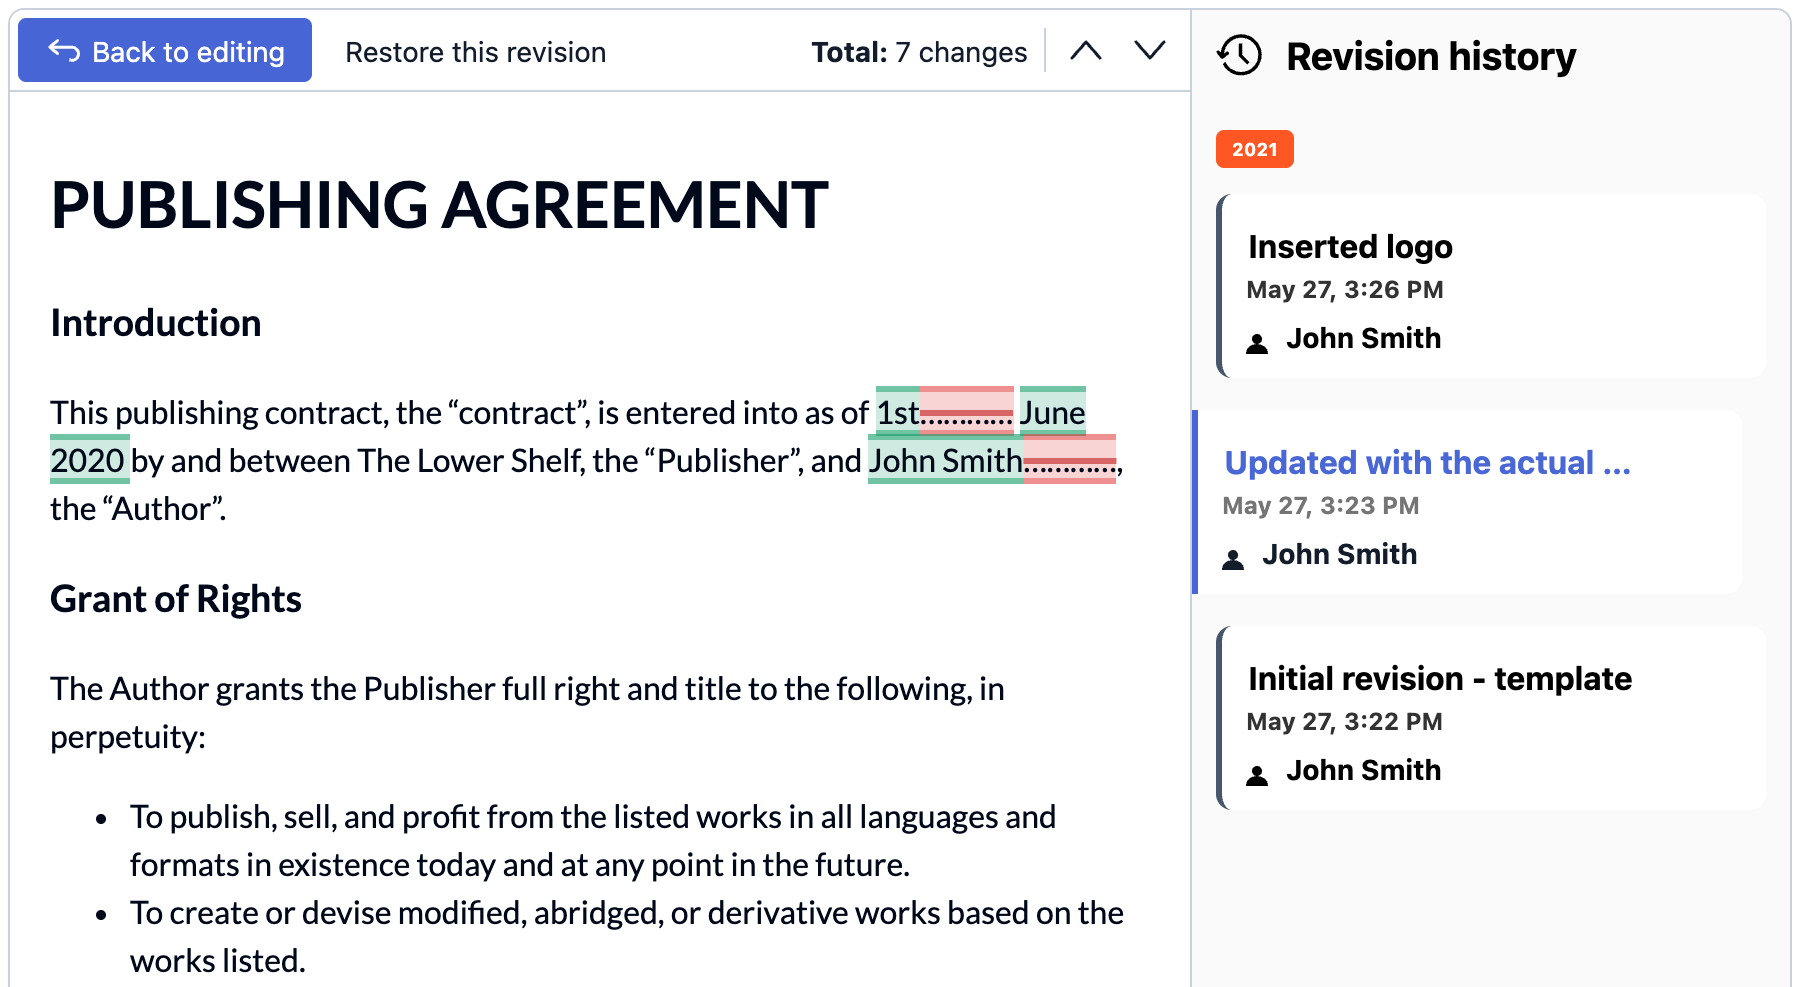
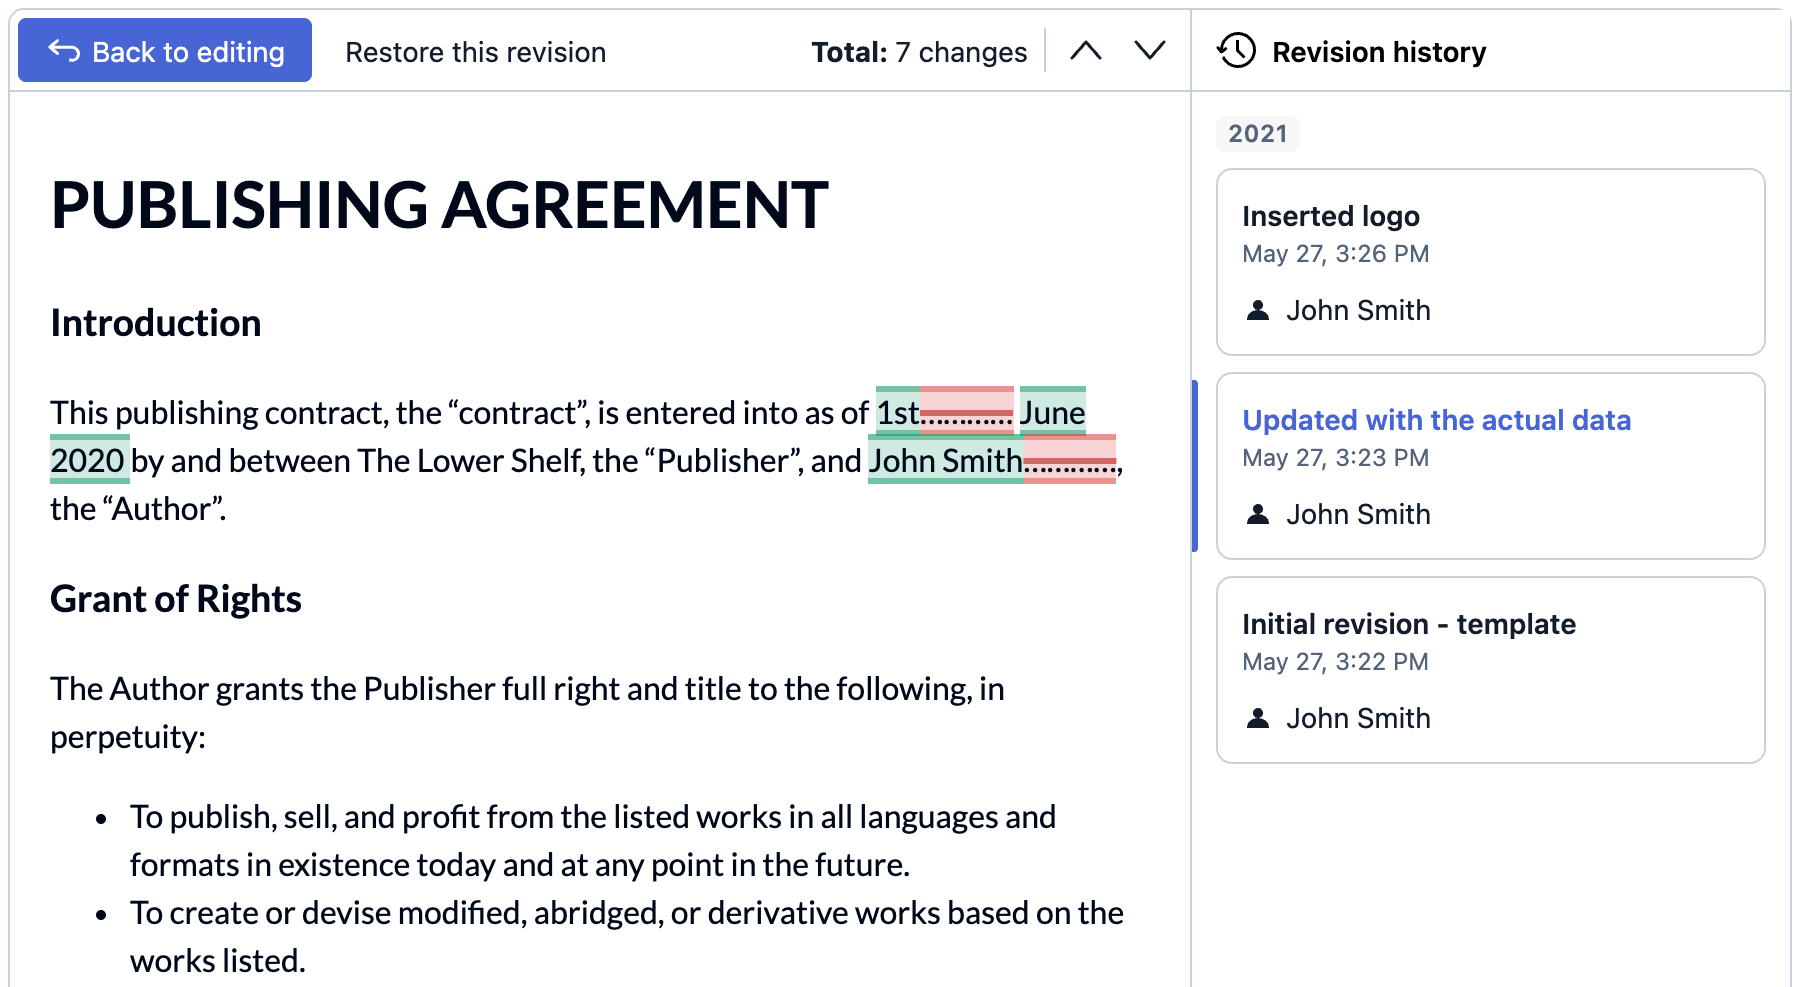
Updated the refreshed-theme migration guide with new CSS rules.
- Added a CSS rule for `.ck-suggestion__ai-source-pill` margin spacing to the migration preset.
- Added new CSS custom properties for the revision history sidebar, including period text color, time-period vertical spacing, and header border.
- Added detailed CSS overrides for revision history sidebar components, covering the header, time-period labels, revision wrappers, revision names, author display, and dropdown actions.
- Updated the revision history feature screenshot.

Revision: 4d4f7a3050e430af6f2193bb05bafce94161cb61

diff --git a/docs/updating/migration-to-refreshed-theme.md b/docs/updating/migration-to-refreshed-theme.md
@@ -1379,6 +1379,10 @@ If you do not have the file yet, copy it from the blocks below. The preset is sp
 	}
 }
 
+.ck .ck-suggestion__ai-source-pill {
+	margin-top: var(--ck-spacing-small, var(--ck-spacing-sm));
+}
+
 /* ============================== ckeditor5-comments ============================== */
 :root,
 :host {
@@ -1532,8 +1536,11 @@ If you do not have the file yet, copy it from the blocks below. The preset is sp
 	--ck-revision-history-revision-delete-confirmation-background-color: var(--ck-revision-history-revision-delete-confirmation-background, hsl(0deg 100% 90%));
 	--ck-revision-history-revision-delete-confirmation-active-button-background-color: var(--ck-revision-history-revision-delete-confirmation-active-button-background, hsl(0deg 100% 85%));
 	--ck-revision-history-sidebar-period-background-color: var(--ck-revision-history-sidebar-period-background, hsl(14deg 100% 57%));
+	--ck-revision-history-sidebar-period-text-color: var(--ck-color-text-inverse);
 	--ck-revision-history-sidebar-timeline-padding: var(--ck-spacing-padding-comfortable);
 	--ck-revision-history-sidebar-revision-vertical-spacing: calc(2 * var(--ck-spacing-standard, var(--ck-spacing-base)));
+	--ck-revision-history-sidebar-time-period-vertical-spacing: var(--ck-revision-history-sidebar-revision-vertical-spacing);
+	--ck-revision-history-sidebar-header-border-bottom: var(--ck-border-divider);
 	--ck-revision-history-loading-overlay-visible-background-color: var(--ck-revision-history-loading-overlay-visible-background, hsl(0 0% 100% / 1));
 	--ck-revision-history-loading-overlay-spinner-size: 60px;
 	--ck-revision-history-loading-overlay-spinner-rotation-duration: 1s;
@@ -1547,6 +1554,189 @@ If you do not have the file yet, copy it from the blocks below. The preset is sp
 	&:hover:not(.ck-disabled) {
 		background: var(--ck-color-base-active-focus);
 	}
+}
+
+.ck.ck-revision-history-sidebar__header {
+	--header-height: max(
+		calc(var(--ck-ui-component-min-height, var(--ck-size-min-height)) + 2 * var(--ck-spacing-small, var(--ck-spacing-sm)) + 1px),
+		calc(var(--ck-icon-size) + 2 * var(--ck-spacing-small, var(--ck-spacing-sm)) + 2 * var(--ck-spacing-small, var(--ck-spacing-sm)) + 1px)
+	);
+
+	font-size: var(--ck-font-size-normal, var(--ck-font-size-base));
+
+	& .ck-revision-history-sidebar__header__label {
+		font-weight: bold;
+		font-size: 1.2em;
+	}
+
+	& .ck-icon {
+		margin-inline-end: var(--ck-spacing-large, var(--ck-spacing-lg));
+	}
+}
+
+.ck.ck-revision-history-sidebar__time-period .ck-revision-history-sidebar__time-period__label {
+	display: inline;
+	width: auto;
+	font-size: 9px;
+	font-weight: bold;
+	line-height: inherit;
+	letter-spacing: normal;
+	padding: var(--ck-spacing-control-padding-block) var(--ck-spacing-control-padding-inline);
+
+	&:first-child {
+		margin-top: var(--ck-spacing-standard, var(--ck-spacing-base));
+	}
+}
+
+.ck.ck-revision-history-sidebar__revision-wrapper .ck-revision-history-sidebar__revision {
+	display: block;
+	color: inherit;
+	border: 0;
+	border-left: 3px solid var(--ck-revision-history-revision-border-color);
+
+	& .ck-revision-history-sidebar__revision__actions {
+		display: block;
+		position: absolute;
+		top: var(--ck-revision-history-revision-padding-block);
+		right: var(--ck-revision-history-revision-padding-inline);
+	}
+
+	& .ck-revision-history-sidebar__revision__date {
+		font-weight: bold;
+		line-height: inherit;
+		opacity: .8;
+	}
+
+	& .ck-revision-history-sidebar__revision-authors {
+		display: block;
+	}
+
+	& .ck-revision-history-sidebar__revision-ai-pill-row {
+		margin-top: var(--ck-spacing-small, var(--ck-spacing-sm));
+	}
+
+	&.ck-revision-history-sidebar__revision_selected,
+	&.ck-revision-history-sidebar__revision_highlighted {
+		transform: translateX(calc(-1 * var(--ck-revision-history-sidebar-timeline-padding)));
+	}
+
+	&.ck-revision-history-sidebar__revision_selected {
+		border-left-color: var(--ck-revision-history-revision-selected-border-color);
+	}
+
+	&.ck-revision-history-sidebar__revision_highlighted {
+		border-left-color: var(--ck-revision-history-revision-highlighted-border-color);
+	}
+
+	& .ck-revision-history-sidebar__revision__edit-actions {
+		gap: 0;
+		margin-top: var(--ck-spacing-standard, var(--ck-spacing-base));
+
+		& .ck.ck-button {
+			min-height: var(--ck-ui-component-min-height, var(--ck-size-min-height));
+			min-width: 60px;
+			font-size: var(--ck-annotation-button-size);
+			margin-left: var(--ck-spacing-large, var(--ck-spacing-lg));
+			padding: 0 var(--ck-spacing-control-padding-inline);
+		}
+	}
+
+	&.ck-revision-history-sidebar__revision_selected.ck-revision-history-sidebar__revision_editing {
+		background: var(--ck-revision-history-revision-background-color);
+		color: inherit;
+
+		& .ck-revision-history-sidebar__revision-author__name {
+			color: var(--ck-revision-history-revision-author-text-color);
+		}
+	}
+}
+
+.ck.ck-revision-history-sidebar__revision-name {
+	font-size: 1.2em;
+	font-weight: bold;
+}
+
+.ck.ck-revision-history-sidebar__revision:not(.ck-revision-history-sidebar__revision_editing) .ck-revision-history-sidebar__revision-name {
+	left: calc(-1 * var(--ck-spacing-small, var(--ck-spacing-sm)));
+	margin-right: 30px;
+
+	& > .ck-labeled-field-view__input-wrapper > .ck-input {
+		padding: var(--ck-spacing-control-padding-block) var(--ck-spacing-control-padding-inline-compact);
+		border: var(--ck-input-border);
+		border-color: transparent;
+		border-radius: var(--ck-border-radius-control);
+		font-weight: bold;
+		font-size: var(--ck-font-size-normal, var(--ck-font-size-base));
+		line-height: normal;
+	}
+}
+
+.ck.ck-revision-history-sidebar__revision_editing .ck-revision-history-sidebar__revision-name > .ck-labeled-field-view__input-wrapper > .ck-input {
+	font-weight: bold;
+	font-size: var(--ck-font-size-normal, var(--ck-font-size-base));
+}
+
+.ck.ck-revision-history-sidebar__revision-author {
+	& .ck-revision-history-sidebar__revision-author__name {
+		font-weight: bold;
+		line-height: inherit;
+	}
+
+	& .ck-icon {
+		top: calc(var(--ck-revision-history-revision-author-font-size)/2);
+		transform: none;
+		width: 11px;
+		height: 10px;
+	}
+}
+
+.ck.ck-revision-history-sidebar__revision {
+	& .ck-revision-history-sidebar__revision__actions.ck-dropdown {
+		& .ck-dropdown__button.ck-button_small {
+			--ck-button-font-size: inherit;
+			--ck-icon-size-ratio: inherit;
+			--ck-icon-size: inherit;
+			--ck-size-control-min-height: inherit;
+			--ck-button-border-radius: inherit;
+
+			min-width: unset;
+			min-height: unset;
+			padding: var(--ck-button-padding);
+
+			& .ck-button__icon {
+				transform: scale( .7 );
+			}
+		}
+
+		& .ck-list__item > .ck-button .ck-button__label {
+			line-height: inherit;
+		}
+	}
+
+	&.ck-revision-history-sidebar__revision_selected .ck-revision-history-sidebar__revision__actions .ck-dropdown__button {
+		color: var(--ck-revision-history-revision-selected-actions-text-color, var(--ck-revision-history-revision-selected-input-text-color));
+
+		&:hover,
+		&.ck-on {
+			background: var(--ck-button-hover-background);
+			color: var(--ck-revision-history-revision-selected-actions-hover-text-color, initial);
+		}
+	}
+
+	&.ck-revision-history-sidebar__revision_highlighted .ck-revision-history-sidebar__revision__actions .ck-dropdown__button {
+		&:hover,
+		&.ck-on {
+			background: var(--ck-revision-history-revision-highlighted-hover-background-color);
+
+			&:hover {
+				filter: brightness(95%);
+			}
+		}
+	}
+}
+
+.ck .ck-revision-change > * {
+	font-size: inherit;
 }
 
 /* ============================== ckeditor5-slash-command ============================== */
